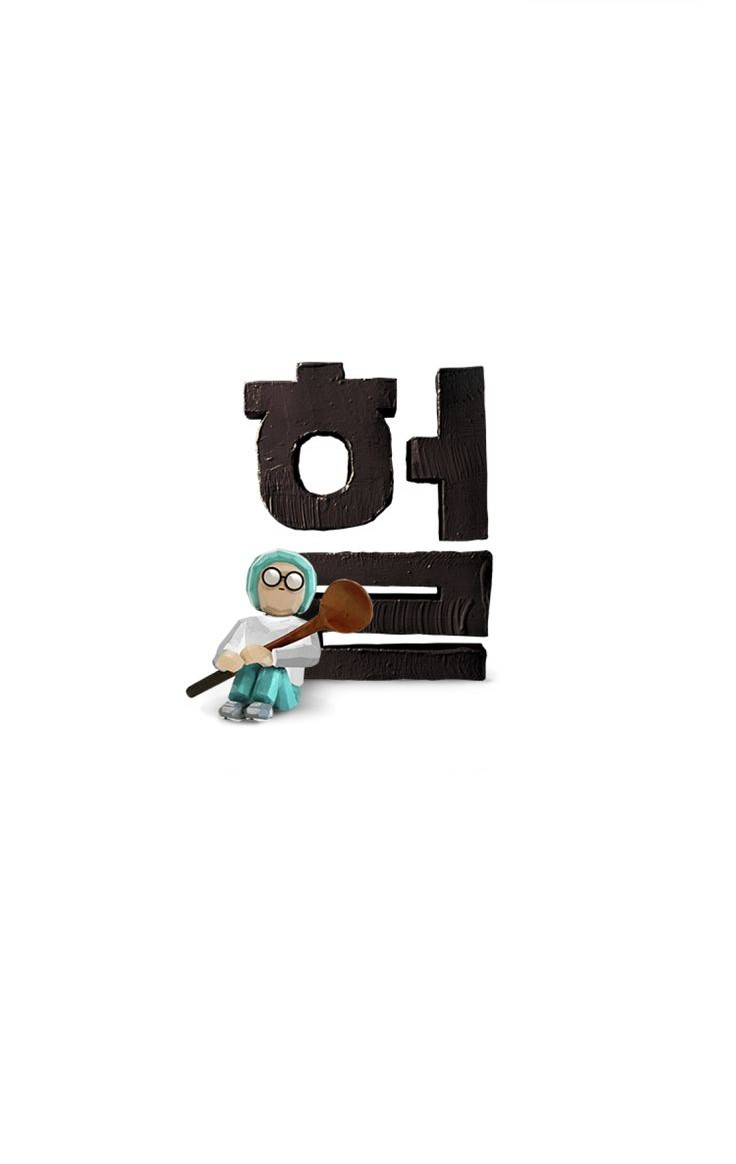
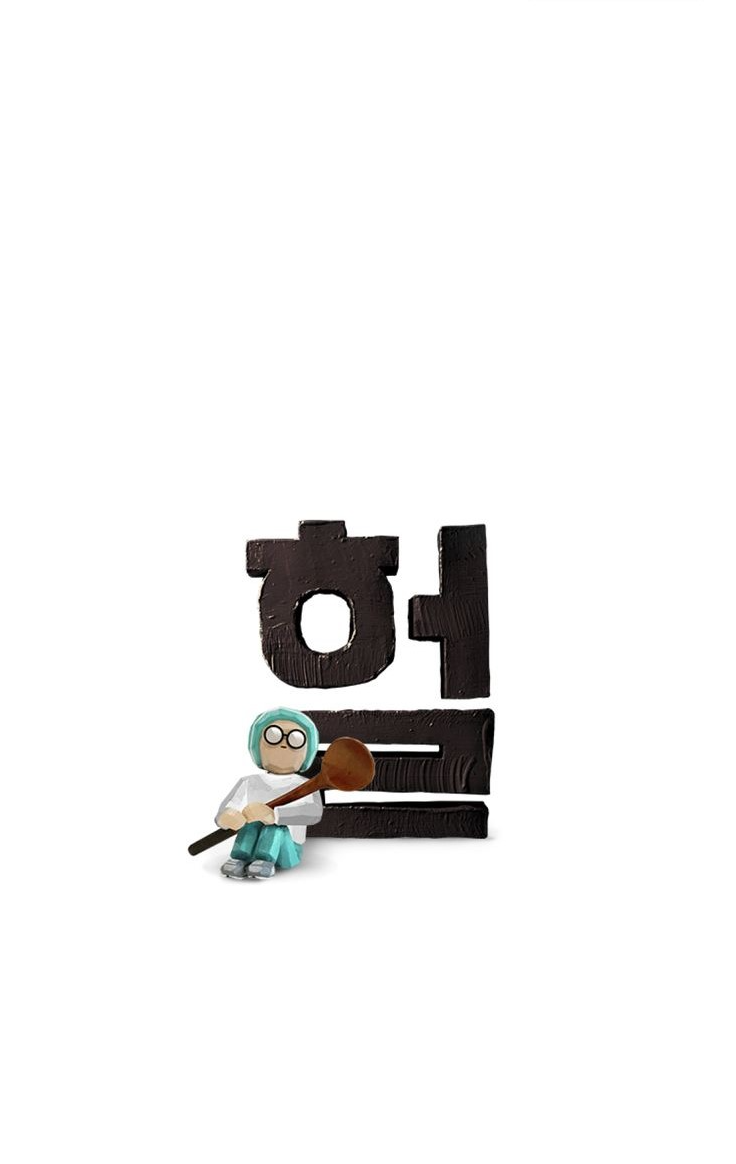
edit image, css
404 page 이미지 조금 수정햇어요 ...

Changed region(s): [[0.25, 0.3093, 0.6875, 0.7732]]

diff --git a/brochure/src/components/NotFound.js b/brochure/src/components/NotFound.js
@@ -10,9 +10,11 @@ const NotFound = () => {
   return (
     <div className="not-found-container">
         <h1 className='not-found-num'>404 ERROR</h1>
-        <h1 className='not-found-text'>길을 잃으신 것 같습니다...</h1>
-        <p> 페이지의 주소가 잘못 입력되었거나, <br/>
-          주소가 변경 혹은 삭제되어 요청하신 페이지를 찾을 수 없습니다.</p>
+        <div>
+          <h1 className='not-found-text'>길을 잃으신 것 같습니다...</h1>
+          <p> 페이지의 주소가 잘못 입력되었거나, <br/>
+            주소가 변경 혹은 삭제되어 요청하신 페이지를 찾을 수 없습니다.</p>
+        </div>
         <button className='not-found-button'><Link to="/">돌아가기</Link></button>
     </div>
   );

diff --git a/brochure/src/assets/css/notFound.css b/brochure/src/assets/css/notFound.css
@@ -9,6 +9,7 @@
     text-align: center;
     background-color: #f8f9fa;
     color: #333;
+    padding-top: 60px;
   
     /* 이미지 반복 설정 */
     background-repeat: repeat-x;
@@ -42,7 +43,7 @@
 
 .not-found-button {
   font-family: "BMHANNAProOTF";
-    position: relative;
+  position: relative;
     bottom: 300px;
     border: none;
     border-radius: 10px;
@@ -53,6 +54,8 @@
 }
 
 .not-found-container p{
+  position: relative;
+  bottom: 300px;
   font-family: "NotoSansKR";
   font-size: 15px;
 }
